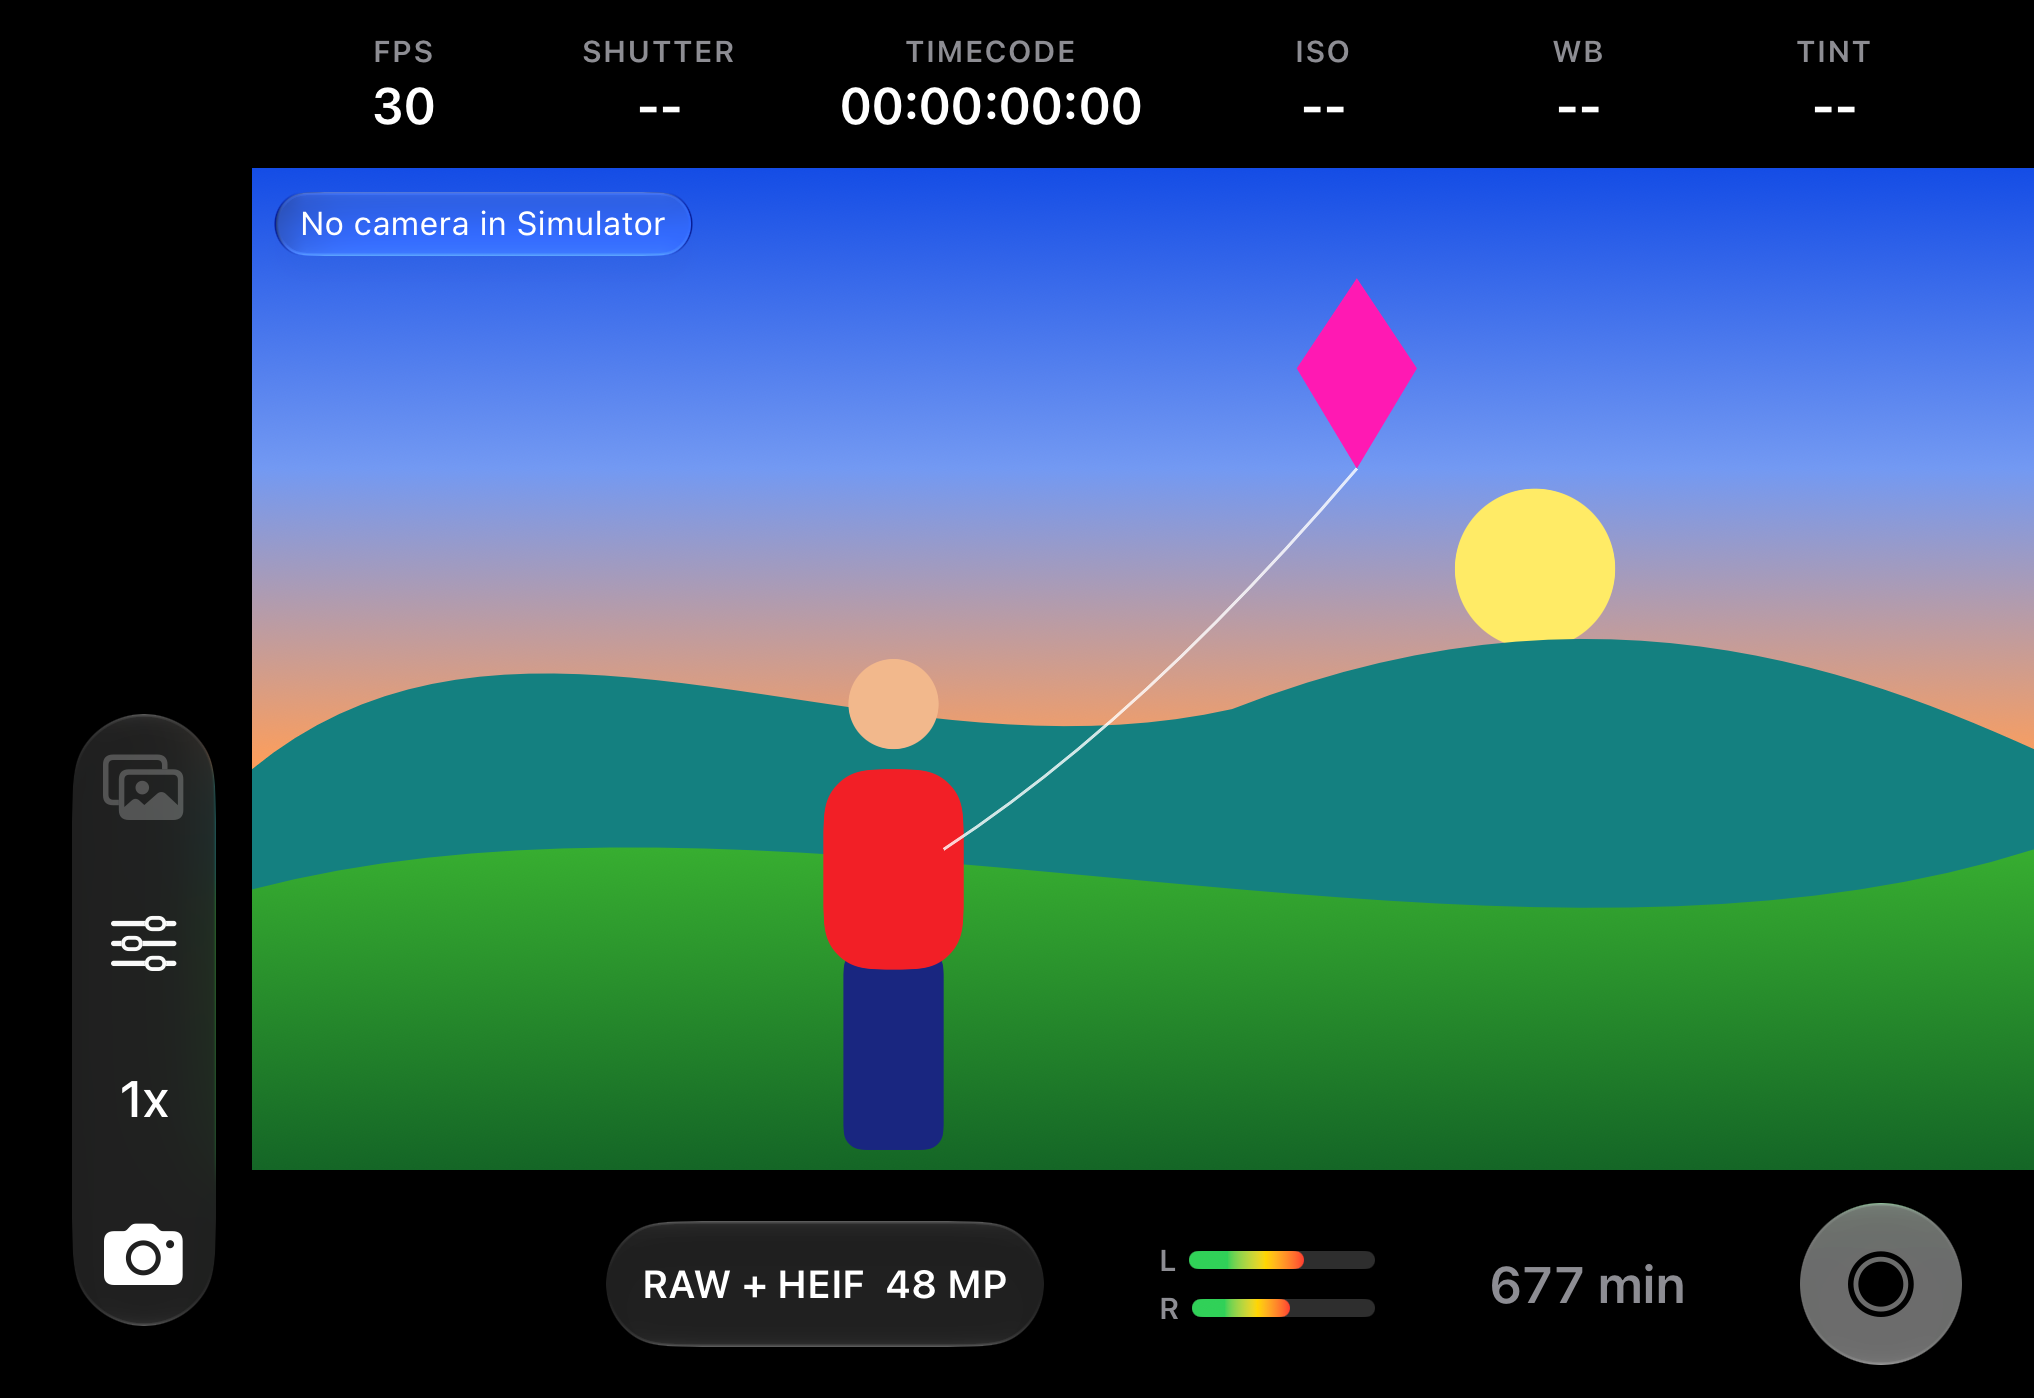
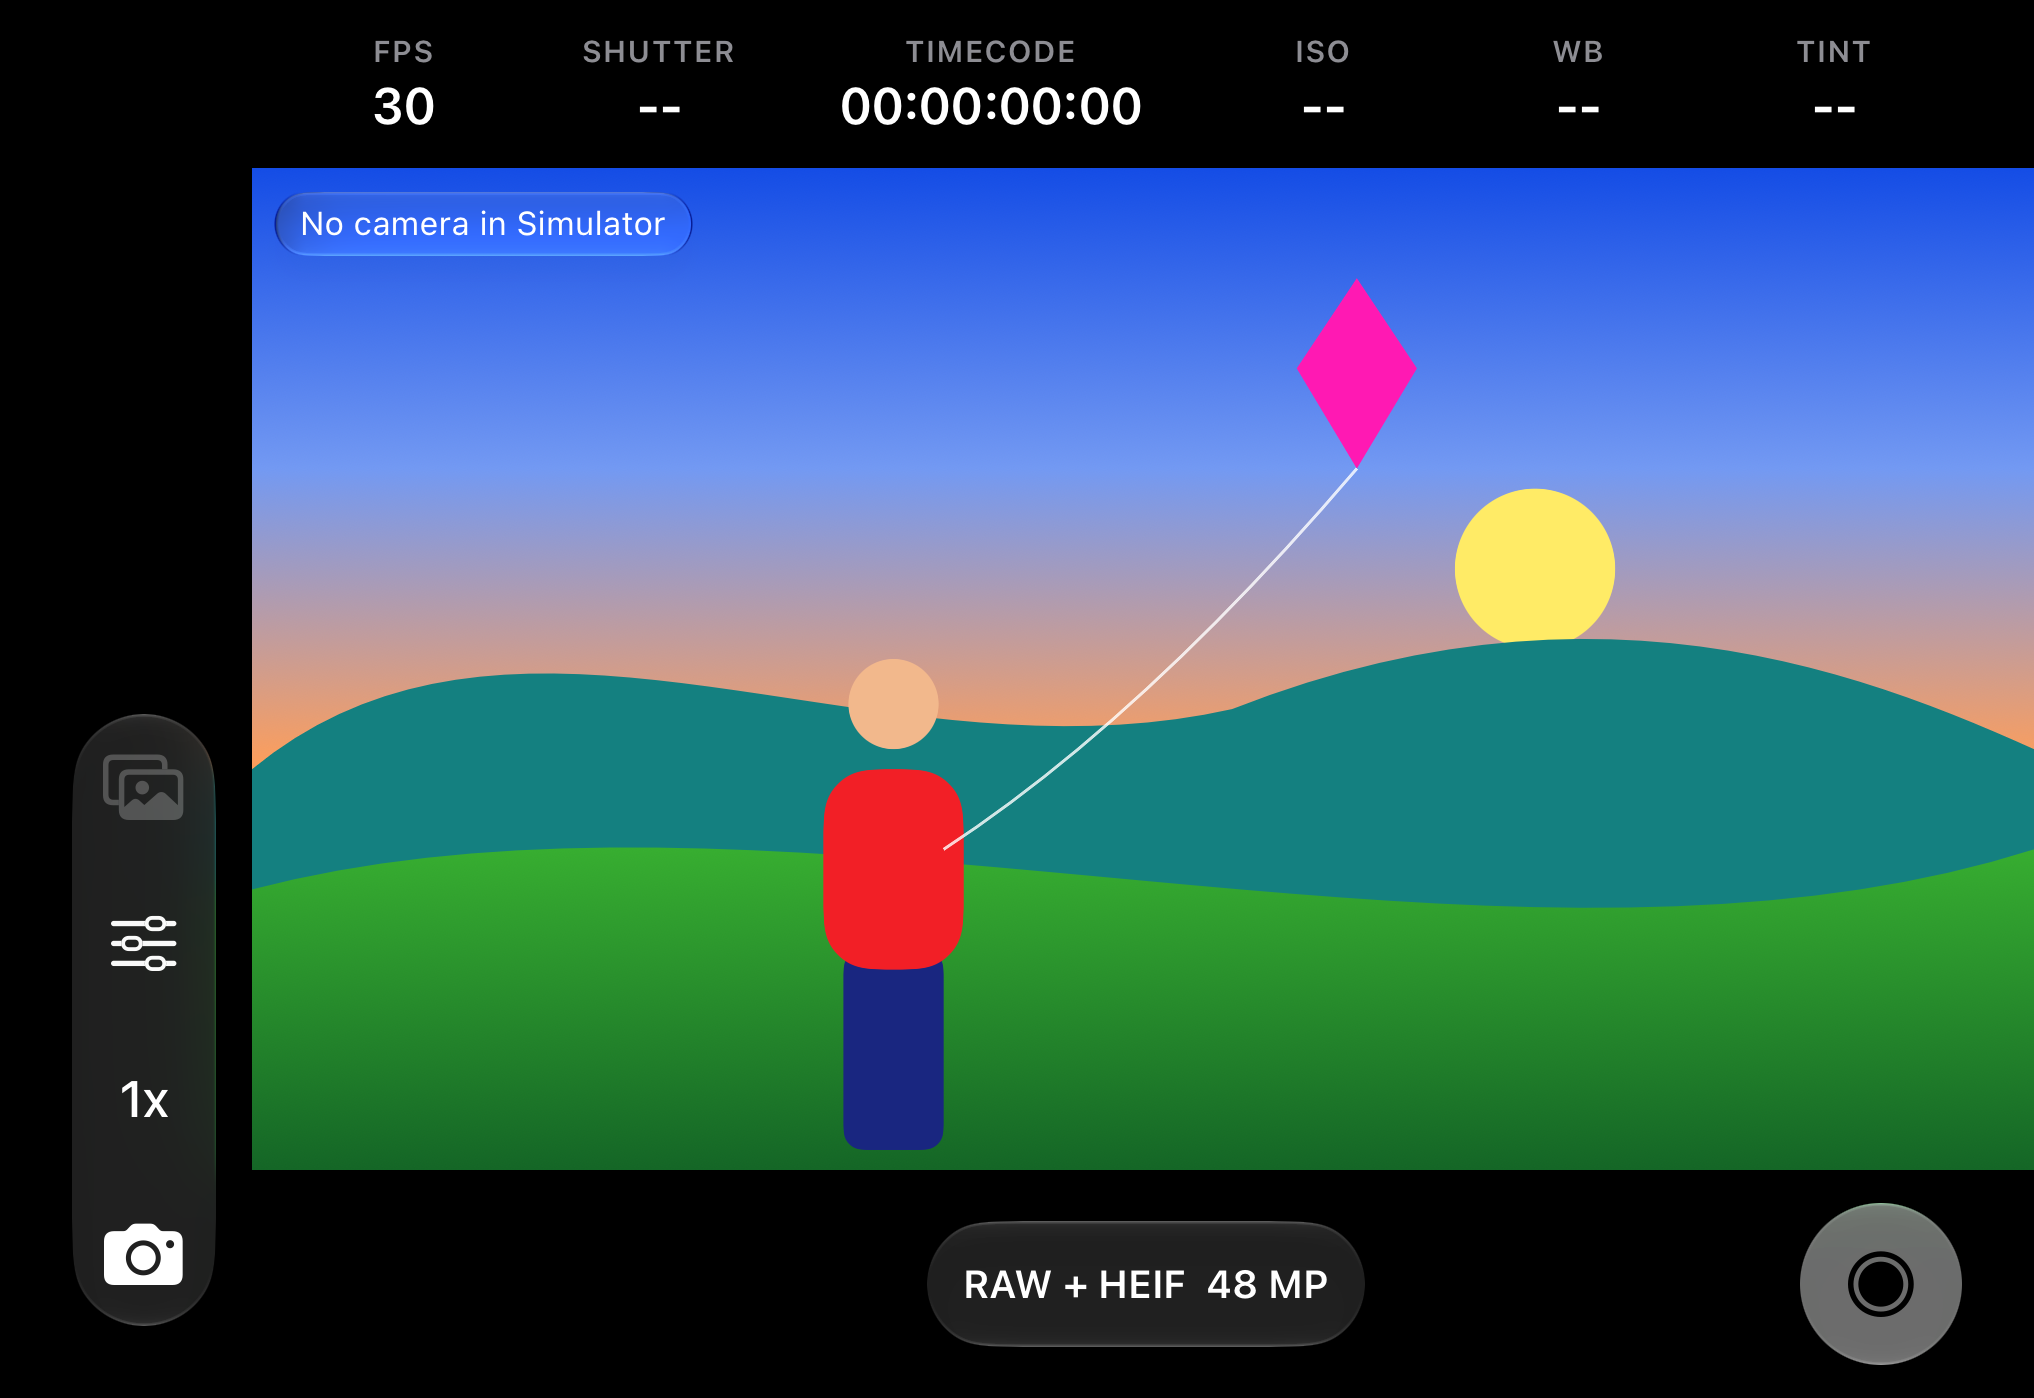
fix: hide audio meters and remaining time in photo mode

Changed region(s): [[0.2788, 0.8612, 0.6814, 0.9843], [0.7124, 0.892, 0.8363, 0.9535]]

diff --git a/OpenCam/UI/BottomBar.swift b/OpenCam/UI/BottomBar.swift
@@ -10,13 +10,15 @@ struct BottomBar: View {
             Spacer(minLength: 0)
             FormatButton(parts: model.summaryParts) { model.sheet = .record }
             Spacer(minLength: 0)
-            AudioMetersView(levels: model.meterLevels)
-                .frame(minHeight: Theme.Size.minTarget)
-            Spacer(minLength: 0)
-            Text(model.remainingText)
-                .font(Theme.Text.value)
-                .foregroundStyle(.secondary)
-            Spacer(minLength: 0)
+            if model.showsVideoReadouts {
+                AudioMetersView(levels: model.meterLevels)
+                    .frame(minHeight: Theme.Size.minTarget)
+                Spacer(minLength: 0)
+                Text(model.remainingText)
+                    .font(Theme.Text.value)
+                    .foregroundStyle(.secondary)
+                Spacer(minLength: 0)
+            }
             CaptureButton(model: model)
         }
         .padding(.leading, Theme.Space.l)

diff --git a/OpenCamTests/CameraModelTests.swift b/OpenCamTests/CameraModelTests.swift
@@ -40,4 +40,11 @@ import Testing
         #expect(model.lensID == "bare"); #expect(model.record == before)
         #expect(model.currentVideoOption == nil); #expect(!model.canCapture)
     }
+
+    @Test func photoModeHidesVideoReadouts() throws {
+        let model = CameraModel(config: .parse(["app", "-mode", "video"]), capabilities: try Fixture.load(), isSimulator: true, defaults: try Fixture.freshDefaults())
+        #expect(model.showsVideoReadouts)
+        model.mode = .photo
+        #expect(!model.showsVideoReadouts)
+    }
 }

diff --git a/OpenCam/App/CameraModel.swift b/OpenCam/App/CameraModel.swift
@@ -77,6 +77,9 @@ final class CameraModel {
         return "\(DataRateEstimator.minutesRemaining(freeBytes: freeBytes, option: option)) min"
     }
 
+    /// Audio meters and the remaining-time estimate describe video recording, so photo mode hides them.
+    var showsVideoReadouts: Bool { mode == .video }
+
     var canCapture: Bool {
         guard phase == .ready else { return false }
         switch mode {
